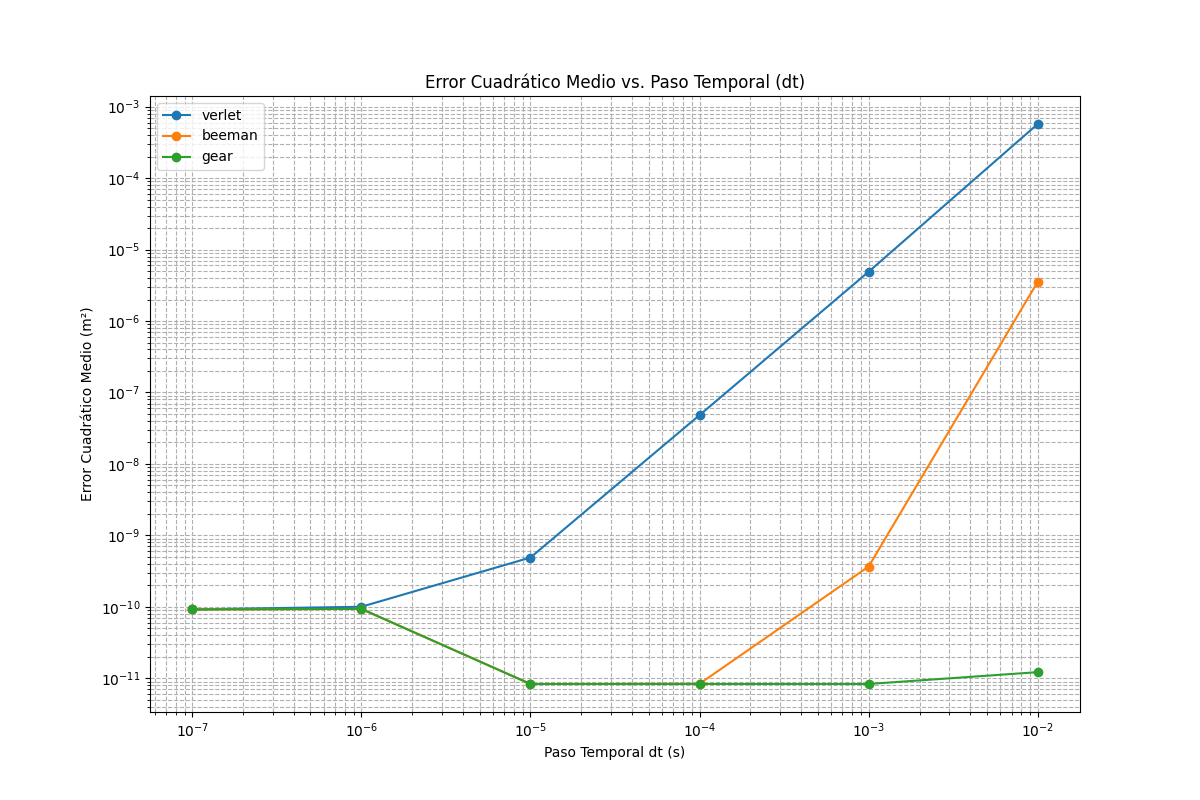
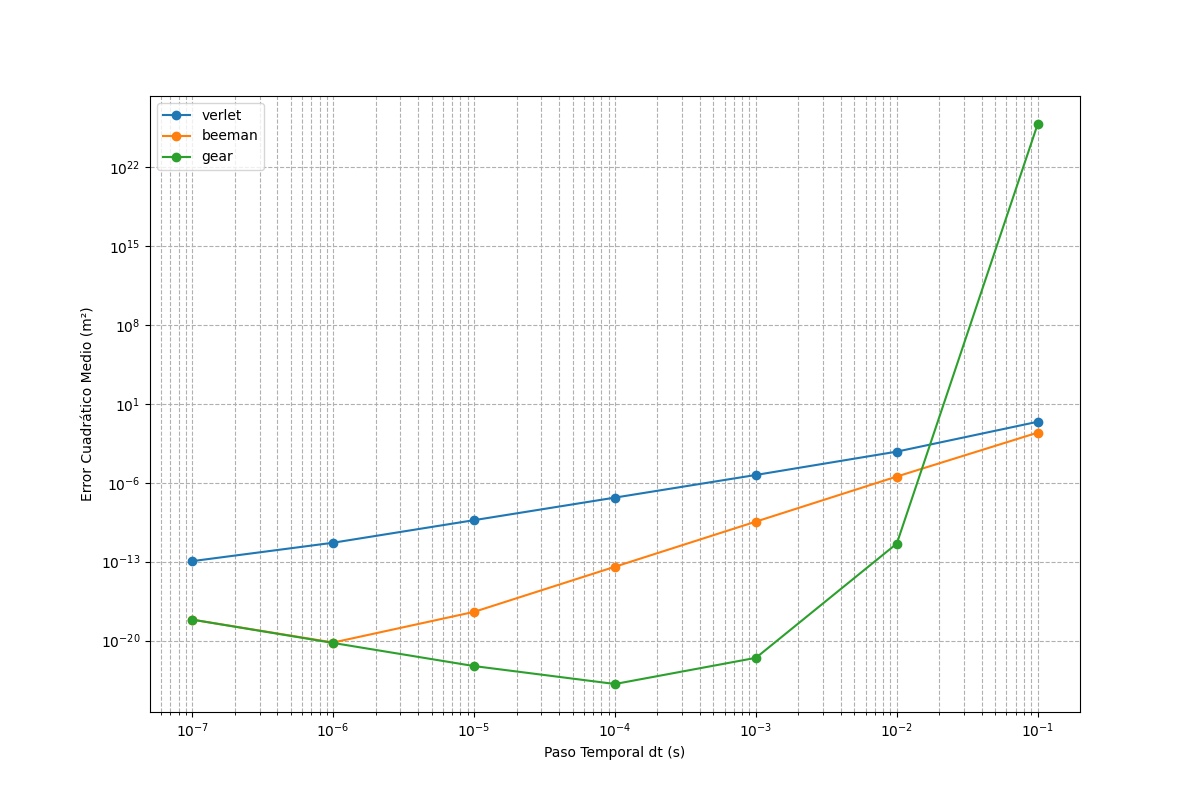
increasing decimals

Changed region(s): [[0.0925, 0.0938, 0.8942, 0.9375], [0.0925, 0.125, 0.1233, 0.1562]]

diff --git a/Sistema1/src/java/simulation1/Main.java b/Sistema1/src/java/simulation1/Main.java
@@ -3,7 +3,11 @@ package simulation1;
 import java.io.IOException;
 import java.util.List;
 import java.util.Locale;
-import simulation1.integrators.*;
+
+import simulation1.integrators.Beeman;
+import simulation1.integrators.Gear;
+import simulation1.integrators.IIntegrator;
+import simulation1.integrators.Verlet;
 import simulation1.utils.CSVWriter;
 
 public class Main {
@@ -12,7 +16,7 @@ public class Main {
     private static final double MASS = 70;
     private static final double TOTAL_TIME = 5.0;
 
-    private static final List<Double> DT_VALUES = List.of(1e-2,
+    private static final List<Double> DT_VALUES = List.of(1e-1, 1e-2,
             1e-3, 1e-4, 1e-5, 1e-6, 1e-7
     );
 

diff --git a/Sistema1/src/java/simulation1/utils/CSVWriter.java b/Sistema1/src/java/simulation1/utils/CSVWriter.java
@@ -3,8 +3,9 @@ package simulation1.utils;
 import java.io.BufferedWriter;
 import java.io.FileWriter;
 import java.io.IOException;
-import simulation1.Particle;
 import java.util.Locale;
+
+import simulation1.Particle;
 
 public class CSVWriter implements AutoCloseable {
     private final BufferedWriter writer;
@@ -19,7 +20,7 @@ public class CSVWriter implements AutoCloseable {
         double pos = p.getPosition();
         double vel = p.getVelocity();
 
-        writer.write(String.format(Locale.US, "%.5f;%.5f;%.5f\n", t, pos, vel));
+        writer.write(String.format(Locale.US, "%.15e;%.15e;%.15e\n", t, pos, vel));
     }
 
     @Override

diff --git a/Sistema1/src/python/main.py b/Sistema1/src/python/main.py
@@ -39,7 +39,7 @@ def analyze_single_run():
     plots.plot_trajectories(analytical_data, sim_data_dict)
 
 def analyze_error_vs_dt():
-    dts = [1e-2, 1e-3, 1e-4, 1e-5, 1e-6, 1e-7]
+    dts = [1e-1, 1e-2, 1e-3, 1e-4, 1e-5, 1e-6, 1e-7]
     algorithms = ['verlet', 'beeman', 'gear']
     error_data = {name: [] for name in algorithms}
 
@@ -58,5 +58,5 @@ def analyze_error_vs_dt():
 
 
 if __name__ == '__main__':
-    analyze_single_run()
+    analyze_error_vs_dt()
     
